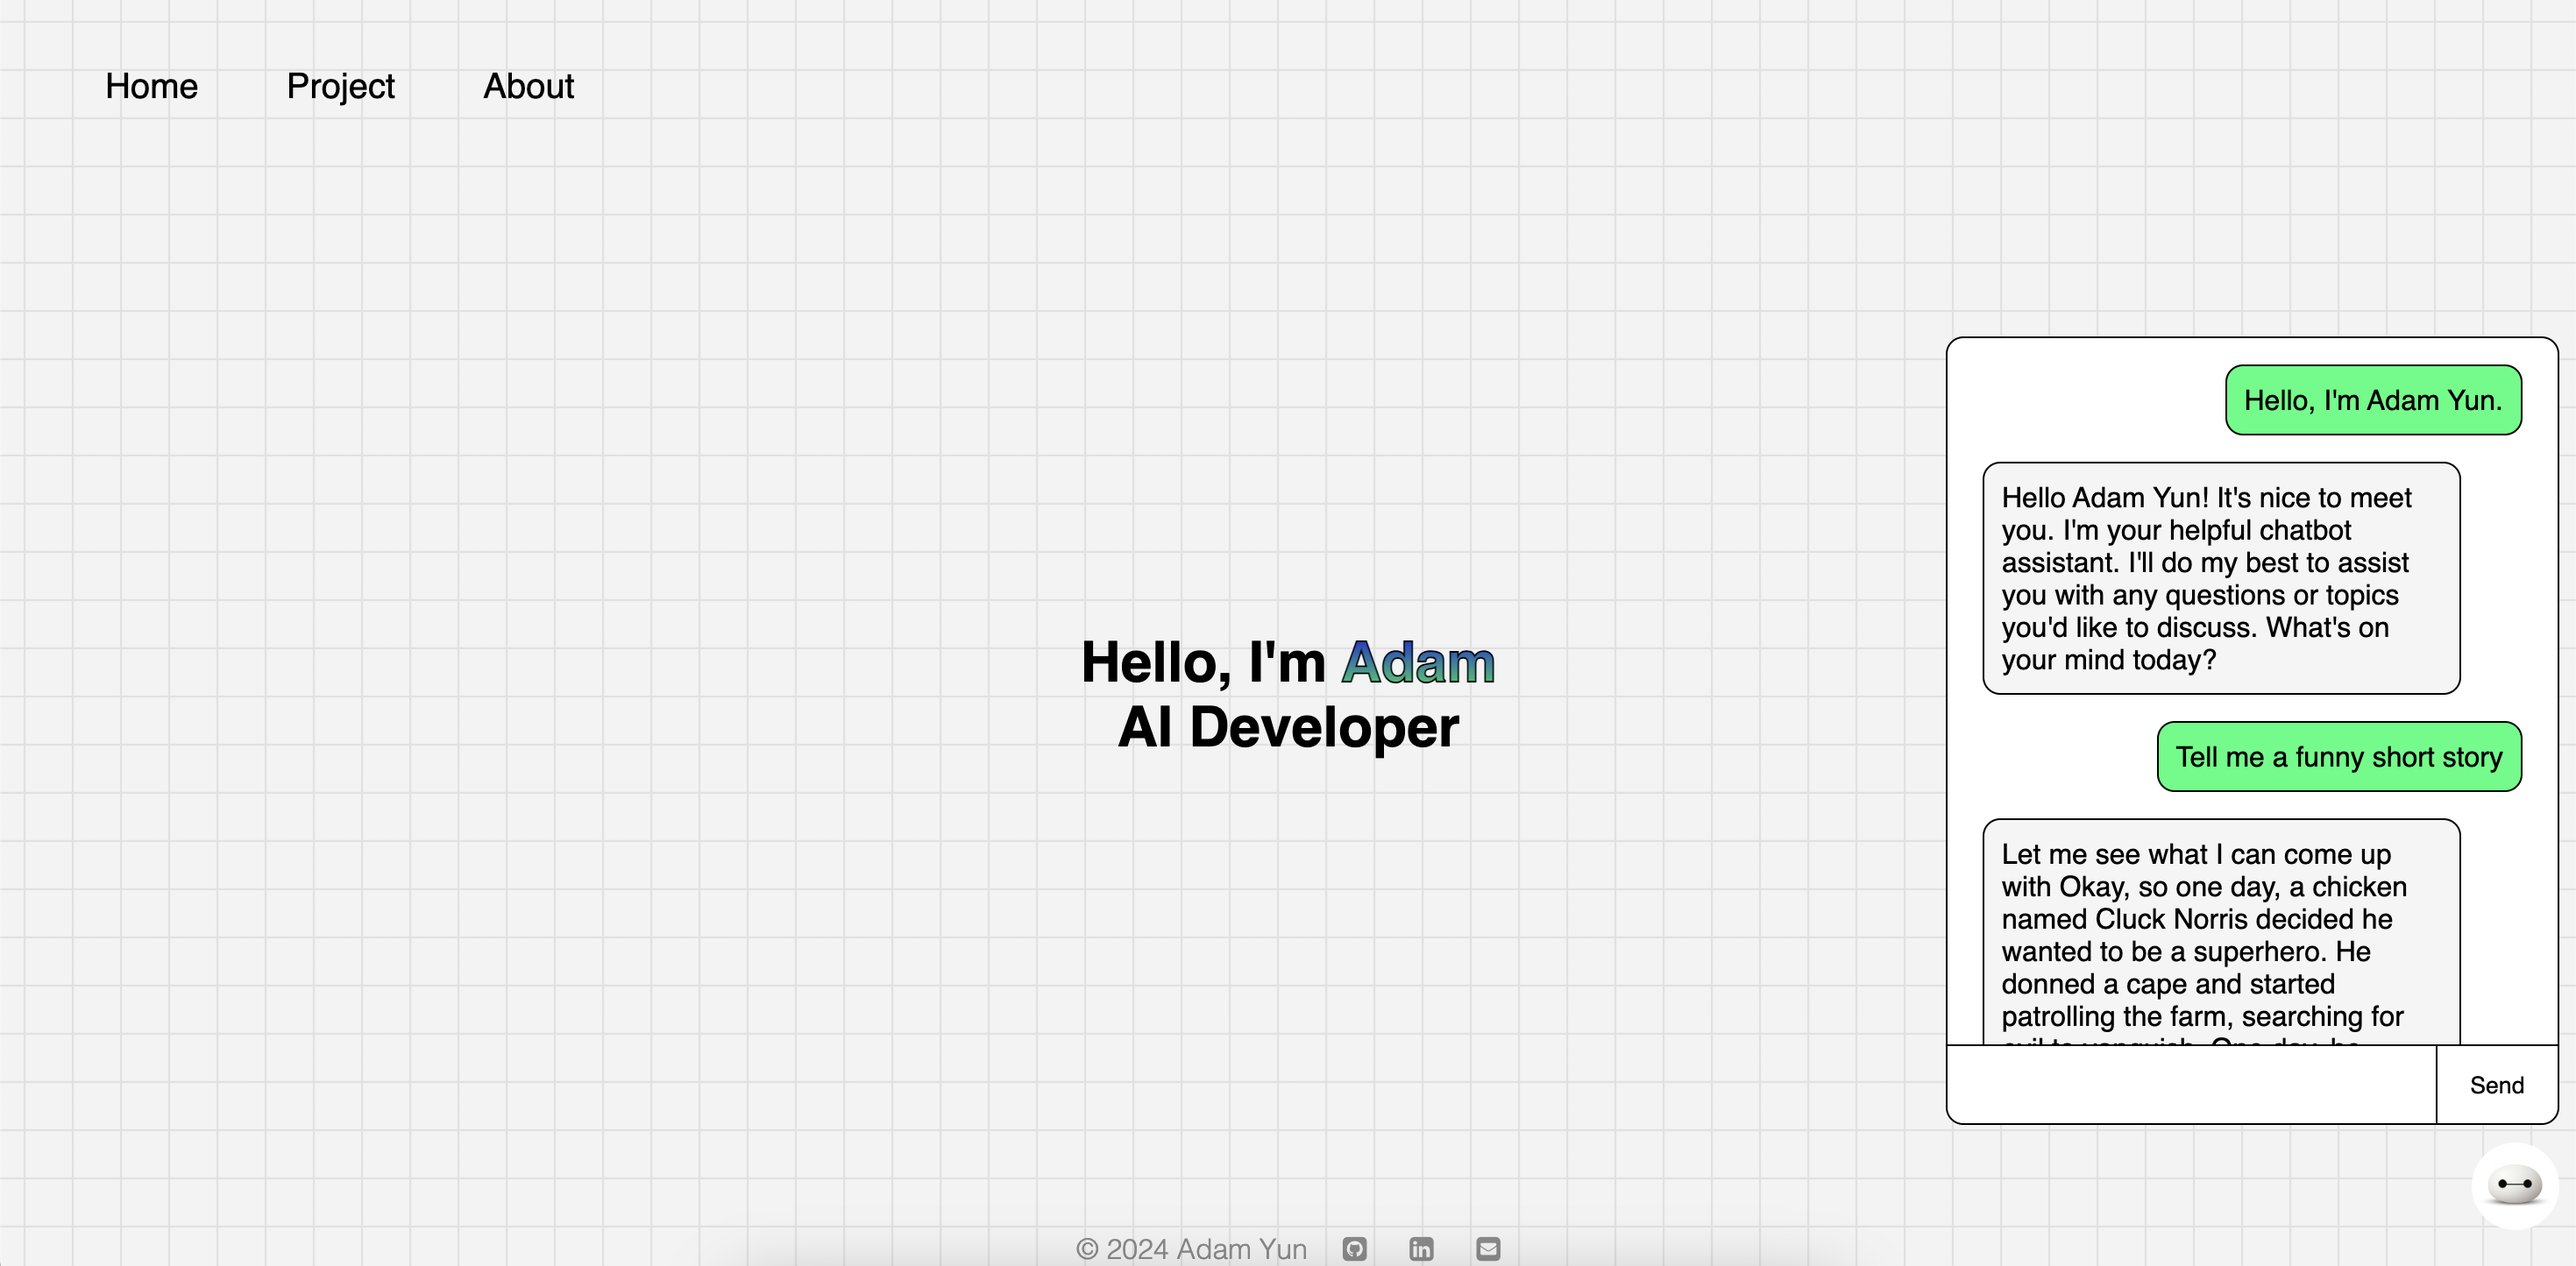
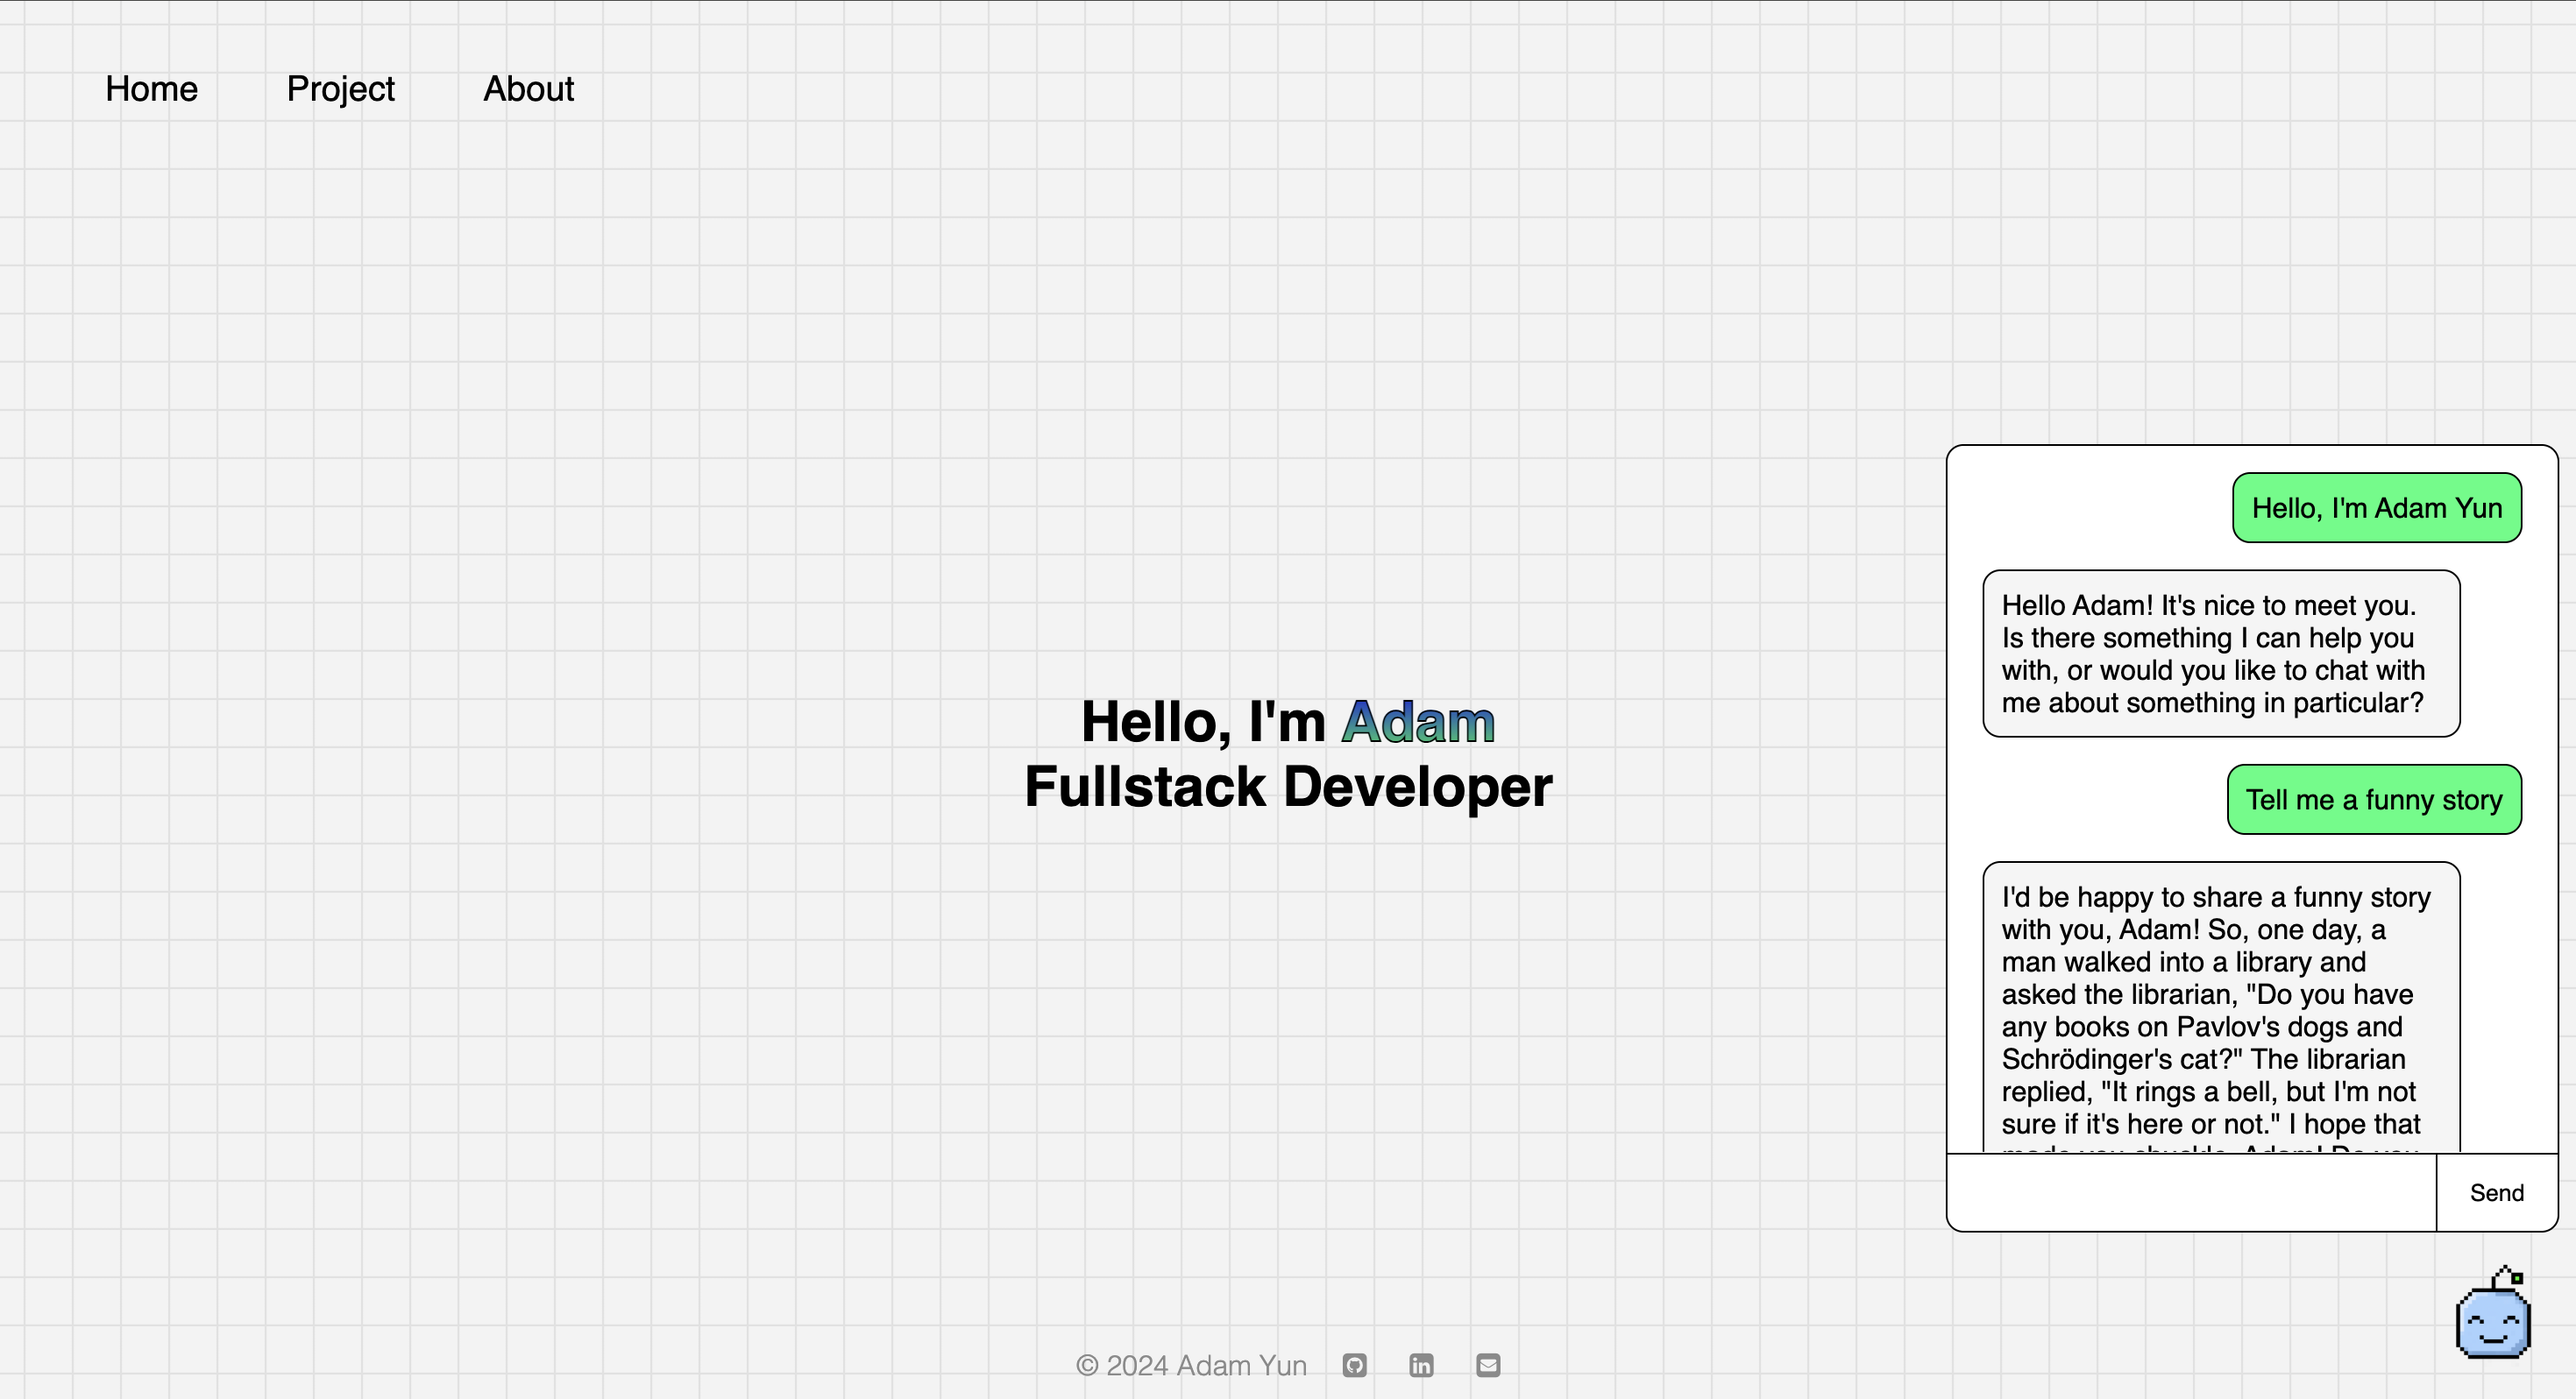
Added new project completion

diff --git a/portfolio/Main/project.html b/portfolio/Main/project.html
@@ -22,6 +22,22 @@
 
     <main class="main-view" id="mainView">
         <ol class="project-list">
+
+            <li class="project">
+                <div class="project-preview-container">
+                    <div class="project-preview">
+                        <img class="project-image" alt="Ollama3 ChatGPT Clone Project Image" src="styles/images/derbygpt.png">
+                    </div>
+                </div>
+                <div class="project-title-container">
+                    <h3 class="project-title">
+                        <p>DerbyGPT Powered By Ollama3</p>
+                    </h3>
+                    <p class="project-description">
+                        <i>A ChatGPT Clone powered by Meta Ollama3 Large Language Model (LLM) to answer user's questions as an AI Assistant.</i>
+                    </p>
+                </div>
+            </li>
             
             <li class="project">
                 <div class="project-preview-container">
